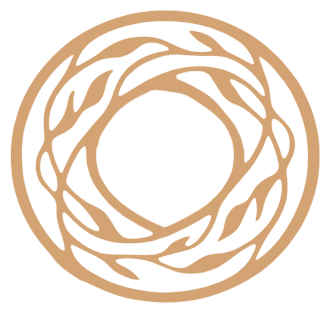
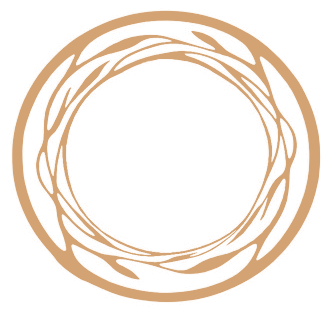
Use open thin ring variant for hero — larger opening, phase word sized up

diff --git a/src/pages/dashboard/DashboardV2Preview.jsx b/src/pages/dashboard/DashboardV2Preview.jsx
@@ -71,10 +71,10 @@ function CycleHero({ faseInfo, onClick }) {
       </p>
 
       {/* Het Ovari-ringembleem IS de cirkel: het fasewoord staat in de opening */}
-      <div style={{ position: 'relative', display: 'flex', alignItems: 'center', justifyContent: 'center', width: 224, height: 213 }}>
-        <img src={ringImg} alt="" aria-hidden style={{ position: 'absolute', inset: 0, width: '100%', height: '100%', opacity: 0.9, pointerEvents: 'none' }} />
-        <div style={{ position: 'absolute', borderRadius: '50%', pointerEvents: 'none', width: 120, height: 120, background: 'radial-gradient(circle, rgba(223,184,138,0.4) 0%, rgba(200,152,100,0.18) 45%, transparent 70%)', filter: 'blur(12px)' }} />
-        <p style={{ position: 'relative', zIndex: 10, fontFamily: serif, fontStyle: 'italic', fontSize: 27, lineHeight: 1, color: '#F5F2EB', textShadow: '0 0 30px rgba(212,163,115,0.55), 0 2px 18px rgba(0,0,0,0.5)', margin: 0 }}>
+      <div style={{ position: 'relative', display: 'flex', alignItems: 'center', justifyContent: 'center', width: 248, height: 237 }}>
+        <img src={ringImg} alt="" aria-hidden style={{ position: 'absolute', inset: 0, width: '100%', height: '100%', opacity: 0.95, pointerEvents: 'none' }} />
+        <div style={{ position: 'absolute', borderRadius: '50%', pointerEvents: 'none', width: 140, height: 140, background: 'radial-gradient(circle, rgba(223,184,138,0.35) 0%, rgba(200,152,100,0.16) 45%, transparent 70%)', filter: 'blur(12px)' }} />
+        <p style={{ position: 'relative', zIndex: 10, fontFamily: serif, fontStyle: 'italic', fontSize: 31, lineHeight: 1, color: '#F5F2EB', textShadow: '0 0 30px rgba(212,163,115,0.55), 0 2px 18px rgba(0,0,0,0.5)', margin: 0 }}>
           {poetic}
         </p>
       </div>
